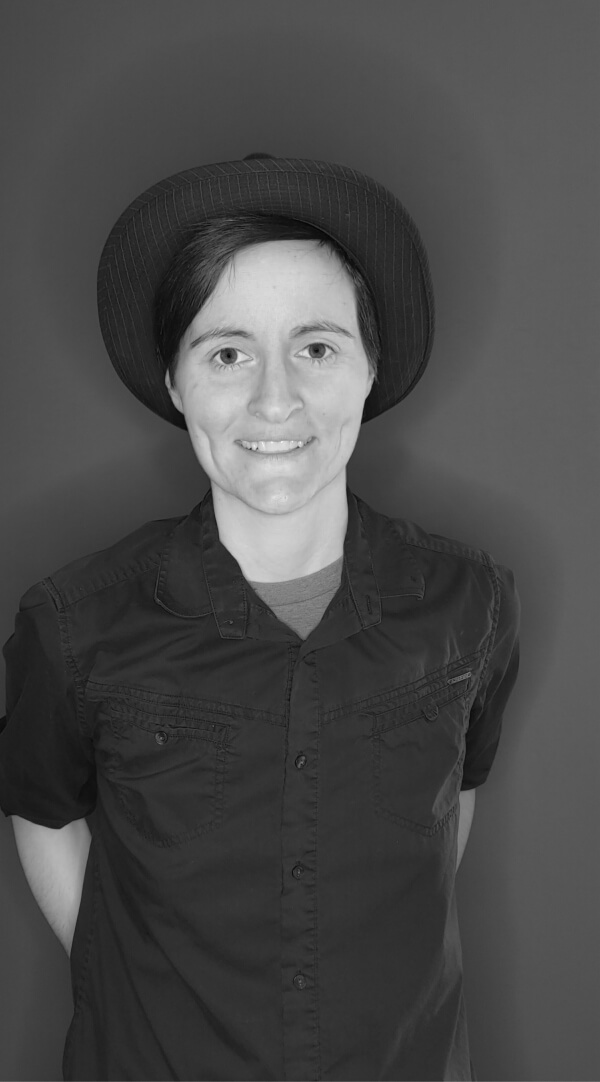
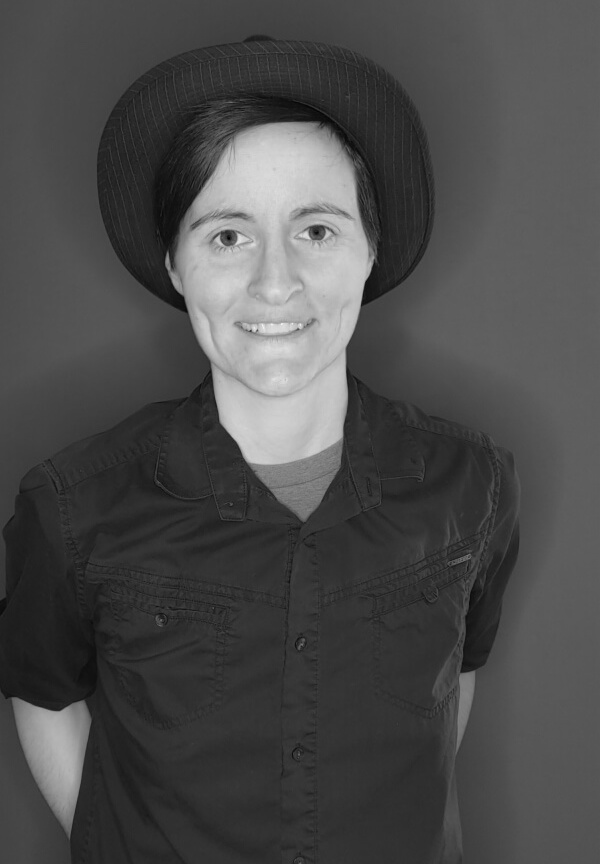
Update index hero, self img, navigation
removed hero id to close large gap between the hero and navigation bar
cropped self image on about
tried to adjust bobbing head position
changed work to home
aligned hamburger with logo

diff --git a/index.html b/index.html
@@ -27,7 +27,7 @@
         <img src="logos/logo-nav.svg" alt="Kari McCullough" class="logo">
         <nav>
           <ul class="">
-            <li><a href="index.html">Work</a></li>
+            <li><a href="index.html">Home</a></li>
             <li><a href="about.html">About</a></li>
             <li><a href="#Contact" onclick="menuToggle()">Contact</a></li>
             <li><a href="javascript:void(0);" class="icon" onclick="menuToggle()"><i class="fas fa-bars"></i></a></li>
@@ -39,7 +39,7 @@
 
   <main>
     <!-- For the hero section -->
-    <div id="hero">
+    <div>
       <div id="hero-index">
         <div class="container">
           <div class="row">

diff --git a/about.html b/about.html
@@ -27,7 +27,7 @@
         <img src="logos/logo-nav.svg" alt="Kari McCullough" class="logo">
       <nav>
         <ul class="">
-          <li><a href="index.html">Work</a></li>
+          <li><a href="index.html">Home</a></li>
           <li><a href="about.html">About</a></li>
           <li><a href="#Contact" onclick="menuToggle()">Contact</a></li>
           <li><a href="javascript:void(0);" class="icon" onclick="menuToggle()"><i class="fas fa-bars"></i></a></li>
@@ -38,7 +38,7 @@
   </header>
 
   <main id="highlight-main">
-    <div id="hero">
+    <div>
       <div class="container">
         <div class="row">
           <div>

diff --git a/watchguide.html b/watchguide.html
@@ -29,7 +29,7 @@
         <img src="logos/logo-nav.svg" alt="Kari McCullough" class="logo">
       <nav>
         <ul class="navigation">
-          <li><a href="index.html">Work</a></li>
+          <li><a href="index.html">Home</a></li>
           <li><a href="about.html">About</a></li>
           <li><a href="#Contact" onclick="menuToggle()">Contact</a></li>
           <li><a href="javascript:void(0);" class="icon" onclick="menuToggle()"><i class="fas fa-bars"></i></a></li>

diff --git a/css/style.css b/css/style.css
@@ -163,7 +163,7 @@ a:active {
 .navtoggle li .icon {
   position: absolute;
   right: 0;
-  top: 2px;
+  top: 6px;
   font-size: 20px;
   padding: 0;
 }
@@ -492,7 +492,7 @@ Medium devices (640px and larger)
 
   .hero-animation-stage {
     display: block;
-    padding-top: 86px;
+    padding-top: 120px;
     height: 100%;
   }
 
